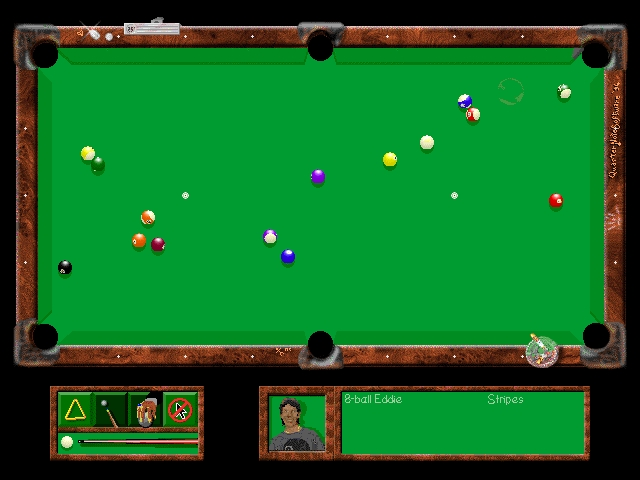
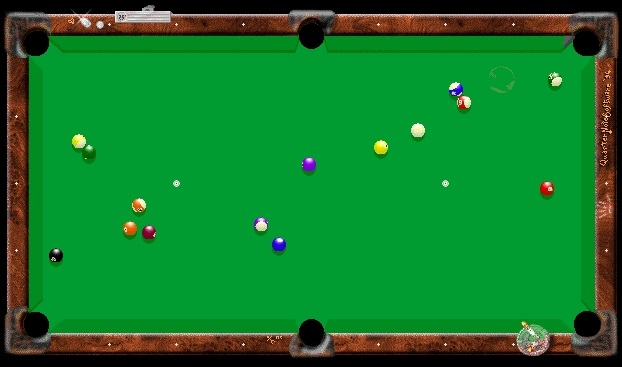
Adeed isolateTable which isolates table from rest of image

diff --git a/track_ball.py b/track_ball.py
@@ -1,6 +1,7 @@
 import cv2
 import numpy as np
 from matplotlib import pyplot as plt
+import imutils
 
 # Load image in BGR (params: image_path)
 # params: image_path
@@ -21,17 +22,18 @@ def getDist(x1, y1, x2, y2):
     return np.sqrt((x2-x1)*(x2-x1)+(y2-y1)*(y2-y1))
 
 # Get table mask
-# params: image, search_range = 45, shadow_intensity = 20, blur = 3
-# return: table mask with size 'blur' median blur
-def getTableMask(image, search_range = 45, shadow_intensity = 20, blur = 3):
+# params: image, search_range = 45, shadow_intensity = 20
+# return: table mask
+def getTableMask(image, search_range = 45, shadow_intensity = 20):
     # Get most common color in 'image' with a certain color range
 	min_color, max_color = getTableColor(image, search_range, shadow_intensity)
 	
 	#Get mask that fits the previous gotten color range
 	mask = cv2.inRange(image, min_color, max_color)
 	
-	# Blur mask with size 'blur' median blur
-	clean_mask = cv2.medianBlur(mask, blur)
+	# Blur mask
+	clean_mask = cv2.dilate(mask, None, iterations=1)
+	clean_mask = cv2.bilateralFilter(clean_mask, 3, 175, 175)
 	
 	return clean_mask
 	
@@ -70,20 +72,57 @@ def getTableContour(table_mask):
 	
 # Get table corners
 # params: table_contour
-# return: array with 4 coordinates which correspond to table corners in this order: bottom left, top left, top right, bottom right
+# return: array with 4 coordinates which correspond to table corners in this order: bottom left (x, y), top left (x, y), top right (x, y), bottom right (x, y)
 def getTableCorners(table_contour):
 	# Get min area rectangle from 'table_contour', which corrects for rotation
 	box = cv2.boxPoints(cv2.minAreaRect(table_contour))
 	return [[box[0][0], box[0][1]], [box[1][0], box[1][1]], [box[2][0], box[2][1]], [box[3][0], box[3][1]]]
 
-img = loadImage('pooltable.png')
-hsv = toHSV(img)
-mask = getTableMask(hsv, blur=7)
-table_contour = getTableContour(mask)
-corn = getTableCorners(table_contour)
+# Get all balls from table
+# params: table_mask
+# return: gets all balls that can be detected in 'table_mask'
+def getBallsContour(table_mask):
+	_, contours, _ = cv2.findContours(table_mask, cv2.RETR_TREE, cv2.CHAIN_APPROX_SIMPLE)
+	balls = []
+	for contour in contours:
+		points = cv2.approxPolyDP(contour, 0.01 * cv2.arcLength(contour, True), True)
+		area = cv2.contourArea(contour)
+		if len(points) > 8 and area > 70:
+			balls.append(contour)
+			
+	return balls
 
-cv2.imshow('image', img)
-cv2.imshow('mask', mask)
+# Crop image according to table
+# params: image, table_contour
+# return: image cropped to 'table_contour' size
+def	isolateTable(image, table_contour):
+	corners = getTableCorners(table_contour) 
+	print([int(corners[1][1]),int(corners[3][1]), int(corners[1][0]),int(corners[3][0])])
+	# Crop by slicing array in this order: start y, end y, start x, end x
+	cropped = image[int(corners[1][1]):int(corners[3][1]), int(corners[1][0]):int(corners[3][0])]
+	imutils.resize(cropped, height=500)
+	cv2.imshow('dank', cropped)
+
+	return cropped
+
+	# Crop image according to table
+# params: image, table_contour
+# return: image cropped to 'table_contour' size
+def initTable(image):
+	img = loadImage(image)
+	hsv = toHSV(img)
+	mask = getTableMask(hsv)
+	table_contour = getTableContour(mask)
+	balls = getBallsContour(mask)
+	isolateTable(img, table_contour)
+	
+	#debug
+	cv2.drawContours(img, balls, -1, (0,255,0), 1)
+	cv2.imshow('image', img)
+	cv2.imshow('mask', mask)
+	
+initTable('pooltable.png')
+
 
 while 1:
     if cv2.waitKey(1) & 0xFF == ord('q'):
